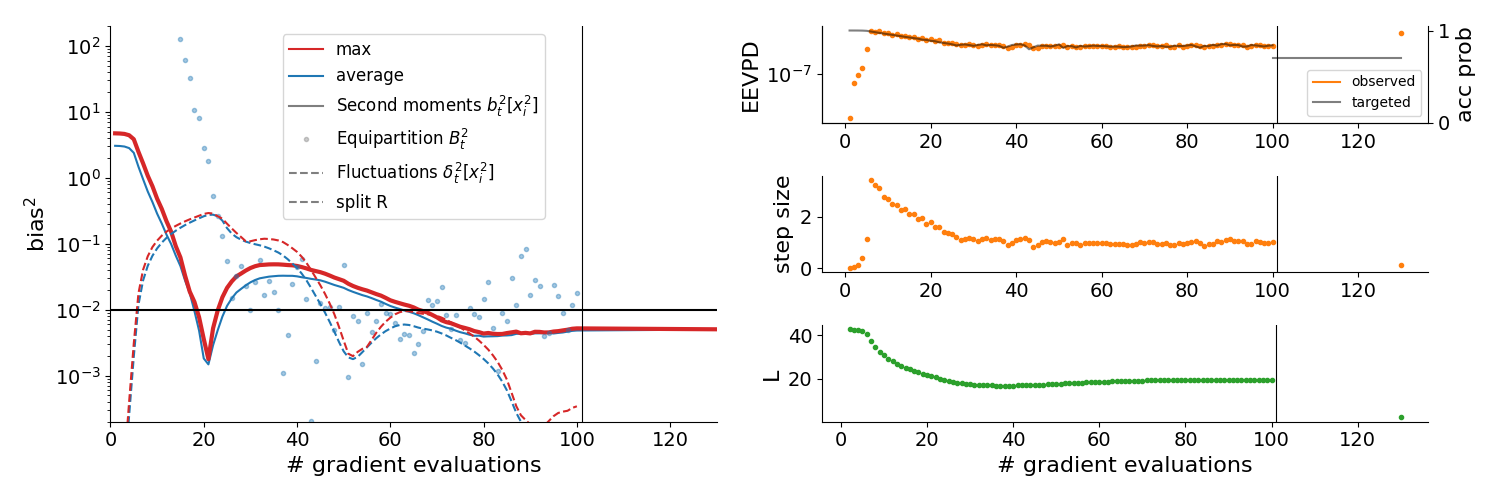
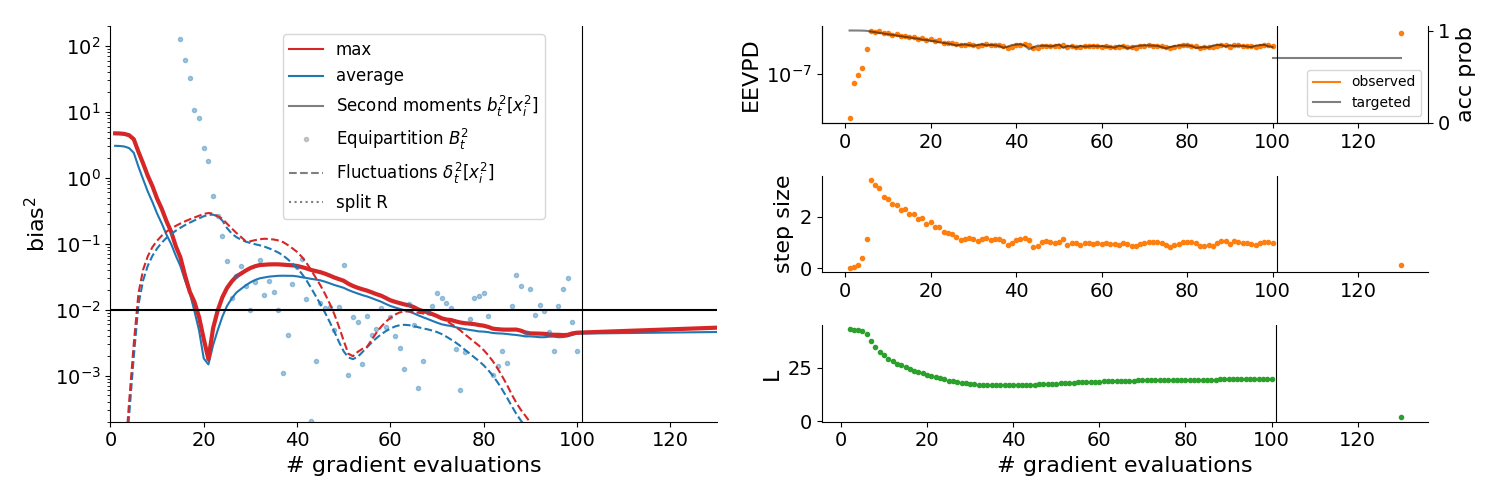
in the process of adding the gaussian

diff --git a/sampler-evaluation/sampler_evaluation/models/gaussian_mams_paper.py b/sampler-evaluation/sampler_evaluation/models/gaussian_mams_paper.py
@@ -16,30 +16,44 @@ import jax
 import pickle
 
 
+rng_inference_gym_icg = 10 & (2 ** 32 - 1)
+
+
 # This is (by default) unrotated (unlike the inference-gym version) and is used for a result in a paper.
 class IllConditionedGaussian(model.Model):
     def __init__(
         self,
         ndims,
-        condition_number,
+        condition_number= None,
         eigenvalues="linear",
-        key=None,
+        numpy_seed=None,
+        key = None,
         name="ICG",
         pretty_name="Ill_Conditioned_Gaussian",
         do_covariance=True,
     ):
+        """random rotation can be specified either by passing a numpy random seed or jax random key (if both are specified, numpy seed will be ignored)"""
+
         self.ndims = ndims
-        self.condition_number = condition_number
+
+        if numpy_seed != None:                  
+            rng = np.random.RandomState(seed=numpy_seed)
+        else:
+            rng = None
 
         # fix the eigenvalues of the covariance matrix
         if eigenvalues == "linear":
             eigs = jnp.linspace(1.0 / condition_number, 1, ndims)
+            self.condition_number = condition_number
+
         elif eigenvalues == "log":
             eigs = jnp.logspace(
                 -0.5 * jnp.log10(condition_number),
                 0.5 * jnp.log10(condition_number),
                 ndims,
             )
+            self.condition_number = condition_number
+
         elif eigenvalues == "outliers":
             num_outliers = 2
             eigs = jnp.concatenate(
@@ -48,12 +62,19 @@ class IllConditionedGaussian(model.Model):
                     jnp.ones(ndims - num_outliers),
                 )
             )
+            self.condition_number = condition_number
+
+        elif eigenvalues == 'gamma':
+            eigs = 1./np.sort(rng.gamma(shape=0.5, scale=1., size=ndims))
+            eigs /= jnp.average(eigs)
+            self.condition_number = eigs[0]/eigs[-1]
+
         else:
             raise ValueError(
                 "eigenvalues = " + str(eigenvalues) + " is not a valid option."
             )
 
-        if key == None:  # diagonal covariance matrix
+        if (numpy_seed == None) and (key == None):  # diagonal covariance matrix
             self.e_x2 = eigs
             # self.R = jnp.eye(ndims)
             self.inv_cov = 1.0 / eigs
@@ -64,12 +85,17 @@ class IllConditionedGaussian(model.Model):
                 jnp.square(x) * self.inv_cov
             )
 
+
         else:  # randomly rotate
             D = jnp.diag(eigs)
             inv_D = jnp.diag(1 / eigs)
-            R, _ = jnp.array(
-                jnp.linalg.qr(jax.random.normal(key=key, shape=((ndims, ndims))))
-            )  # random rotation
+
+            if key != None:
+                R, _ = jnp.array(jnp.linalg.qr(jax.random.normal(key=key, shape=((ndims, ndims)))))
+
+            else:
+                R, _ = jnp.array(np.linalg.qr(rng.randn(ndims, ndims)))  
+            
             self.R = R
             self.inv_cov = R @ inv_D @ R.T
             self.cov = R @ D @ R.T

diff --git a/papers/LAPS/main.py b/papers/LAPS/main.py
@@ -20,7 +20,7 @@ sys.path.append('../probability/spinoffs/fun_mc')
 
 #from sampler_evaluation.models.banana import banana
 from sampler_evaluation.models.banana_mams_paper import banana_mams_paper
-# from sampler_evaluation.models.gaussian_mams_paper import IllConditionedGaussian
+from sampler_evaluation.models.gaussian_mams_paper import IllConditionedGaussian, rng_inference_gym_icg
 from sampler_evaluation.models.stochastic_volatility_mams_paper import stochastic_volatility_mams_paper
 from sampler_evaluation.models.brownian import brownian_motion
 from sampler_evaluation.models.item_response import item_response
@@ -37,25 +37,44 @@ mesh = jax.sharding.Mesh(jax.devices()[:1], 'chains')
 print('Number of devices: ', len(jax.devices()))
 
 m = [(banana_mams_paper, 100, 50, 500),
-     #(Gaussian(ndims=100, eigenvalues='Gamma', numpy_seed= rng_inference_gym_icg), 500, 500])
+     (IllConditionedGaussian(ndims=100, eigenvalues='gamma', numpy_seed= rng_inference_gym_icg), 500, 500, 2000),
      (german_credit(), 500, 400, 2000),      
      (brownian_motion(), 500, 500, 2000),
-     (item_response(), 500, 500, 2000), #500],
+     (item_response(), 500, 500, 2000),
      (stochastic_volatility_mams_paper, 800, 1500, 5000)] # change to 3000 for M dependence plot
     
 
-model, n1, n2, n_meads = m[0]
-samples, info, settings_info = parallel_microcanonical(num_steps1= n1, 
-                                                       num_steps2= n2, 
-                                                       num_chains= batch_size, mesh= mesh, superchain_size= 1)(model=model)
+results = {}
+for mm in m:
+     model, n1, n2, n_meads = mm
+     samples, info, settings_info = parallel_microcanonical(num_steps1= n1, 
+                                                            num_steps2= n2, 
+                                                            num_chains= batch_size, mesh= mesh, superchain_size= 1)(model=model)
 
+     n = plot_trace(info, model, settings_info, 'papers/LAPS/img/trace/')
+     
+     results[model.name] = n
+     print(results)
+
+
+
+for mm in m:
+
+
+     model, n1, n2, n_meads = mm
+     n = n1 + n2
+
+     def step(state):
+          jax.vmap(model.log_)
+          return state, None
+
+     jax.lax.scan(step, )
 
 #meads_results = meads_with_adam(n_meads, batch_size)(model= model)
 
 #print(meads_results)
 
-plot_trace(info, model, settings_info, 'papers/LAPS/img/trace/')
-
+print(results)
 
 #shifter --image=jrobnik/sampling:1.0 python3 -m papers.LAPS.main
 

diff --git a/sampler-comparison/sampler_comparison/samplers/parallel/microcanonicalmontecarlo/laps.py b/sampler-comparison/sampler_comparison/samplers/parallel/microcanonicalmontecarlo/laps.py
@@ -31,12 +31,13 @@ def plot_trace(info, model, settings_info, dir):
 
     steps = np.concatenate((steps1, steps2))
     ntotal = steps[-1]
-    bias0 = np.concatenate((info1['bias0'][:n1], info2['bias'][:, 0]))
-    bias1 = np.concatenate((info1['bias1'][:n1], info2['bias'][:, 1]))
+    bias_max = np.concatenate((info1['bias0'][:n1], info2['bias'][:, 0]))
+    bias_avg = np.concatenate((info1['bias1'][:n1], info2['bias'][:, 1]))
 
-    #n = [find_crossing(steps, bias[:, i], 0.01) for i in range(2)]
-        
-    #steps_to_low_error = [jnp.ceil(samples_to_low_error(bias[:,i], low_error=0.01)).astype(int) for i in range(2)]
+
+    st = samples_to_low_error(bias_max, 0.01)
+    print(st)
+    n = steps[st]
 
 
     plt.figure(figsize= (15, 5))
@@ -56,8 +57,8 @@ def plot_trace(info, model, settings_info, dir):
     plt.plot([], [], '-', color= 'tab:blue', label= 'average')
     
     # true
-    plt.plot(steps, bias1, color = 'tab:blue')
-    plt.plot(steps, bias0, lw= 3, color = 'tab:red')
+    plt.plot(steps, bias_avg, color = 'tab:blue')
+    plt.plot(steps, bias_max, lw= 3, color = 'tab:red')
     plt.plot([], [], color='tab:gray', label= r'Second moments $b_t^2[x_i^2]$')
 
     # equipartition
@@ -77,7 +78,7 @@ def plot_trace(info, model, settings_info, dir):
     plt.plot(steps1, info1['R_max'][:n1], ':', color = 'tab:red')
     plt.plot(steps2, info2['R_avg'], ':', color = 'tab:blue')
     plt.plot(steps2, info2['R_max'], ':', color = 'tab:red')
-    plt.plot([], [], '--', color = 'tab:gray',label = 'split R')
+    plt.plot([], [], ':', color = 'tab:gray',label = 'split R')
 
     # pathfinder
     #pf= pd.read_csv('ensemble/submission/pathfinder_convergence.csv', sep= '\t')
@@ -153,6 +154,7 @@ def plot_trace(info, model, settings_info, dir):
     plt.savefig(dir + model.name + '.png')
     plt.close()
 
+    return n
 
 
 
@@ -197,6 +199,7 @@ def parallel_microcanonical(num_steps1, num_steps2, num_chains, mesh, early_stop
         return final_state.position, info, settings_info
     
     return s
+
 
 
 

diff --git a/sampler-evaluation/sampler_evaluation/evaluation/ess.py b/sampler-evaluation/sampler_evaluation/evaluation/ess.py
@@ -39,7 +39,7 @@ def samples_to_low_error(err_t, low_error=0.01):
     # else:
     #     jax.debug.print("Error below threshold at final error {x}", x=err_t[-1])
     crossing = find_crossing(err_t, low_error)
-    return crossing * (1 / cutoff_reached)
+    return crossing if cutoff_reached else np.inf
 
 
 def find_crossing(array, cutoff):
